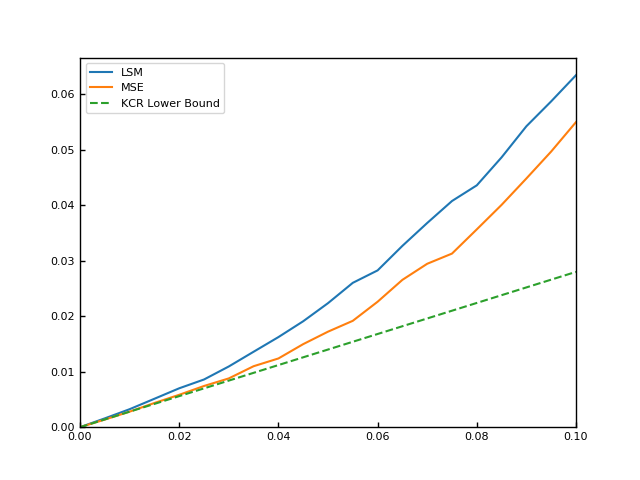
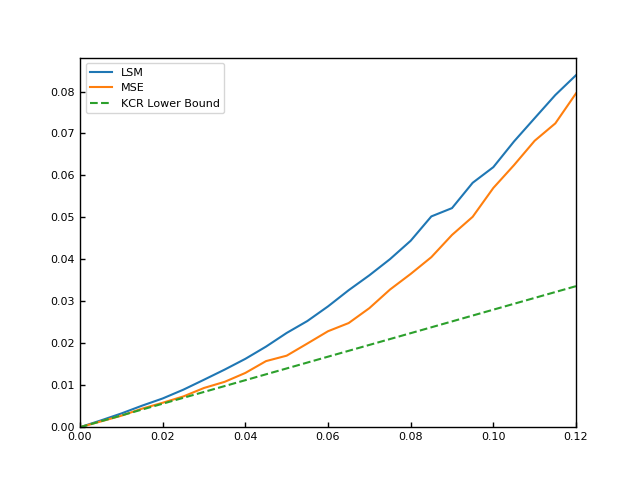
add comment for recognizing program

diff --git a/excercise2/LSM_MLE.py b/excercise2/LSM_MLE.py
@@ -1,3 +1,10 @@
+#-------------------------------------------------------------------------------
+# @Name : LSM_MLE.py
+# @Abstract : Estimate Ellipse parameter from pixel position data by LSM and MLE
+# @Author : Koki Furuya
+# @Last edid : 2019/07/24
+# reference : 菅谷先生の論文 http://www.iim.cs.tut.ac.jp/~kanatani/papers/hyperellip.pdf
+#-------------------------------------------------------------------------------
 import numpy as np
 from scipy import linalg
 import scipy as sp
@@ -7,20 +14,22 @@ from sympy import *
 import sympy
 import scipy.sparse.linalg
 
+#show array infomation of vector or matrix
 def array_info(x):
     print("Array shape:", x.shape)
     print("Type of data:", x.dtype)
     print("Element of Array:\n",x,"\n")
 
 #add gausserror
+#正確な楕円上の位置(x,y)データ群に対して,標準偏差stdvの誤差を付与
 def addGaussError(data, avg, stdv, absmax):
   noise = np.random.normal(avg, stdv, data.shape)
-  #print(noise)
   noise = np.clip(noise, -(absmax + avg), absmax + avg)
   dataWError = data + noise
   return dataWError
 
-#create Matrix
+#create MMatrix
+#最小二乗法と最尤推定法(FNS)の双方で使うM行列の計算(reference参照)
 def createMMat(data, weight):
 
   dataMod = np.matrix(np.zeros((data.shape[0], 6)))
@@ -34,7 +43,7 @@ def createMMat(data, weight):
 
   M = np.zeros((6, 6))
   M = np.matrix(M)
-  #array_info(weight)
+
   for i in range(dataMod.shape[0]):
     dM = dataMod[i, :].T * dataMod[i, :]
     M = M + weight[i, 0] * dM
@@ -57,18 +66,11 @@ def createLMat(data, weight, myu, covs):
   L = np.matrix(np.zeros((6, 6)))
   for i in range(dataMod.shape[0]):
     coeff = weight[i, 0]**2 * (dataMod[i, :] * myu)**2
-    #array_info(coeff)
-    #L = L + coeff[0, 0] * createCovMat(data[i,:])
     L = L + coeff[0, 0] * covs[i]
-    #array_info(coeff[0, 0] * covs[i])
-    #print('weight:',weight[i, 0])
-    #print('weight**2:',weight[i, 0]**2)
-    #print('(dataMod[i, :] * myu)**2:',(dataMod[i, :] * myu)**2)
-    #print('coeff[0, 0] * covs[i]:',coeff[0, 0] * covs[i])
 
   return L / dataMod.shape[0]
 
-#
+#正規化共分散行列の計算
 def createCovMat(data):
 
     x = data[0, 0]
@@ -92,29 +94,6 @@ def createCovMat(data):
     #cov = cov
     return 4*cov
 
-#normalizetion of vector
-def array_normalize(v, axis=-1, order=2):
-    l2 = np.linalg.norm(v, ord = order, axis=axis, keepdims=True)
-    l2[l2==0] = 1
-    return v/l2
-
-def calcVectorError(Vct,trueVct):
-    sumerr = 0.0
-    for i in range(Vct.shape[0]):
-        sumerr = sumerr + np.sqrt((Vct[i,0]-trueVct[i,0])**2)
-    return sumerr
-
-def calc_Weight_LSM(weight,data,myu,row):
-    for i in range(data.shape[0]):
-        CovMat = createCovMat(data[i,:])
-        alp = myu.T * CovMat * myu
-        weight[i,0] = 1/(alp)
-        #Cov_myu = np.dot(CovMat,myu)
-        #weight[i,0] = 1/(np.dot(Cov_myu.T,myu))
-        #weight = np.matrix(np.full(row,weight_value)).T
-    #array_info(weight)
-    return weight
-
 #LSM(最小二乗法による計算)
 def estimateLSM(data):
     weight = np.matrix(np.full(data.shape[0],1.0)).T
@@ -134,123 +113,55 @@ def estimateLSM(data):
         myu=-myu
     return myu
 
+#FNS(最尤推定法による計算)
 def estimateFNS(data):
-    # Add normalized term.
     dataMod = data
-    #dataMod = np.concatenate((data, np.ones((data.shape[0], 1))), axis=1)
-
     # Param Vector
     myu = np.matrix(np.zeros(6)).T
     myuNew = myu
     myuOrg = myu
-
     # Weight matrix.
     weight = np.ones(dataMod.shape[0])
     weight = np.matrix(weight).T
-    #myu = estimateLSM(data)
     # Covars
     covs = []
     for i in range(dataMod.shape[0]):
         data_row = dataMod[i, :]
         covs.append(createCovMat(data_row))
-        #print(covs[i])
-    #myu = estimateLSM(dataMod)
+
     loop = 0
     while True:
         # M Matrix
         M = createMMat(dataMod, weight)
         L = createLMat(dataMod, weight, myu, covs)
-        #array_info(M)
-        #array_info(L)
-        #print('dataMod',dataMod)
-        #print('weight',weight)
-        #lamdas, v = np.linalg.eigh((M - L))
         lamdas, v = sp.linalg.eigh((M - L),turbo=False)
-        #print('lamdas:',lamdas)
-        #print('v:',v)
-
         myuOrg = myu
-
-        #myuNew = np.matrix(v[:, np.argmin(np.absolute(lamdas))]).T
-        #print(la)
-        #la,v = np.linalg.eigvals(MMat)
-        #index = np.where(lamdas==min(lamdas))[0][0]
-        #sorted_lamdas = sorted(lamdas,reverse=True)[:5]
-        #print(sorted_lamdas)
-        #print(sorted_lamdas)
-        #myuNew = np.matrix(v[:, np.argmin(sorted_lamdas)]).T
-        #index = [i for i, v in enumerate(sorted_lamdas) if v == min(sorted_lamdas)][0]
-        #print(v[:, index])
         index = [i for i, v in enumerate(lamdas) if v == min(lamdas)][0]
         myuNew=np.matrix(v[:, index]).T
-        #print('lamda:',lamdas)
-        #print('index:',np.argmin(np.absolute(lamdas)))
-        #print('lamda:',lamdas)
-        #print(v[:, index])
-
-        #print( (M-L)*myuNew - np.matrix(np.diag(lamdas))*myuNew )
-        #if loop==0:
-            #myuNew = np.matrix(v[:, np.argmin(np.absolute(lamdas))]).T
-        #myuNew = np.matrix(v[:, np.argmin(np.absolute(lamdas))])
-        #myuNew = np.matrix(v[:, np.argmin(np.absolute(lamdas))]).T
-
-        #print('resutl:',((M-L)-np.argmin(np.absolute(lamdas)*np.matrix(np.ones((6,6)))))*myuNew)
-        #print('myuNew',myuNew)
-        #myuNew = np.matrix(v[:, np.argmin(lamdas)]).T
-        #print('index',index)
-        #print('v',v)
-        #print('lamdas',lamdas)
-        #print('min(v)',np.min(lamdas))
         if myuNew.sum()<0:
             myuNew=-myuNew
 
-        #myu = (myuNew + myuOrg) / 2
         myu = myuNew
 
-        #term = np.linalg.norm(myu - myuOrg)
-
         term = np.linalg.norm(np.absolute(myu) - np.absolute(myuOrg))
-        #print('term:',term)
-        #print('term:',term)
         if term < 10e-6 or loop > 100:
             if loop > 100:
                 print('loop > 100')
             break
 
-
-        #weight = calc_Weight_LSM(weight,data,myu,data.shape[0])
+        #weightの更新
         for i in range(dataMod.shape[0]):
             alp = myu.T * covs[i] * myu
             weight[i, 0] = 1 / (alp)
 
         loop = loop + 1
         #array_info(weight)
-        calcFunctionJ(dataMod,covs,myu)
     if myu.sum()<0:
         myu = -myu
 
-    #if myu[0,0]<0:
     return myu
 
-def calcFunctionJ(data,covs,myu):
-    dataMod = np.matrix(np.zeros((data.shape[0], 6)))
-    for i in range(data.shape[0]):
-       dataMod[i, 0] = data[i, 0]**2
-       dataMod[i, 1] = data[i, 0] * data[i, 1]
-       dataMod[i, 2] = data[i, 1]**2
-       dataMod[i, 3] = data[i, 0] * data[i, 2]
-       dataMod[i, 4] = data[i, 1] * data[i, 2]
-       dataMod[i, 5] = data[i, 2]**2
-
-    #calc J
-    J=0.0
-    for i in range(data.shape[0]):
-        alp = myu.T * covs[i] * myu
-        J = J + (myu.T*dataMod[i, :].T)**2 /alp
-    #print('J:',J)
-    #print('myu',myu)
-    return J
-
+#分散の計算
 def calcDeviation(results,true_val):
     sum_theta = np.matrix(np.zeros((6,1)))
     for rst in results:
@@ -260,36 +171,24 @@ def calcDeviation(results,true_val):
         sum_theta = sum_theta + delta_theta
     sum_theta = sum_theta/len(results)
     rms_value = np.linalg.norm(sum_theta)
-    #rms_value = np.linalg.norm(sum_theta,2)
-        #print(sum_theta)
-        #print(np.linalg.norm(delta_theta,2)**2)
-    #print('sum_theta/resultsNum:',sum_theta/len(results))
-    #rms_value = np.sqrt(sum_theta/len(results))
-    #print(rms_value)
     return rms_value
 
+#RMS誤差の計算
 def calcRMSErr(results,true_val):
     sum_theta = 0.0
     for rst in results:
         p_theta = np.identity(6) - np.dot(true_val,true_val.T)
         delta_theta = np.dot(p_theta,rst)
         sum_theta = sum_theta + np.linalg.norm(delta_theta)**2
-        #print(delta_theta)
-        #print('norm',np.linalg.norm(delta_theta))
-
-        #sum_theta = sum_theta + np.linalg.norm(delta_theta,2)**2
-        #print(sum_theta)
-        #print(np.linalg.norm(delta_theta,2)**2)
-    #print('sum_theta/resultsNum:',sum_theta/len(results))
     rms_value = np.sqrt(sum_theta/len(results))
 
     testsum = 0.0
     for rst in results:
         testsum = testsum + np.linalg.norm(rst - true_val)
     print('norm distance:',testsum/len(results))
-    #print(rms_value)
     return rms_value
 
+#KCR下(理論上, それ以下の精度は出せないという値)の計算
 def KCR_lower_bound(data,stdv,data_num,myu):
 
     # Weight matrix.
@@ -305,11 +204,7 @@ def KCR_lower_bound(data,stdv,data_num,myu):
         alp = myu.T * covs[i] * myu
         weight[i, 0] = 1 / (alp)
 
-    #print('weight:',weight)
-
     M = createMMat(data, weight)
-    #M = np.linalg.inv(M)
-    #M = np.linalg.inv(M)
     lamda,v = np.linalg.eigh(M)
 
     sorted_lamda = sorted(lamda, reverse=True)
@@ -317,30 +212,13 @@ def KCR_lower_bound(data,stdv,data_num,myu):
     sorted_lamda = np.matrix(sorted_lamda[:5]).T
 
     sum_inv_ramda = 0.0
-    #sum_inv_ramda = sorted_lamda.sum()
     for i in range(sorted_lamda.shape[0]):
         sum_inv_ramda = sum_inv_ramda + (1.0/sorted_lamda[i])
-    #print('M:',M)
-    #print(createMMat(data, np.matrix(np.ones(data.shape[0])).T))
-    #sum_inv_ramda = 0.0
-    #for i in range(lamda.shape[0]):
-        #sum_inv_ramda = sum_inv_ramda + 1.0/lamda[i]
 
     Dkcr = stdv*np.sqrt(sum_inv_ramda) / np.sqrt(data.shape[0])
-    #array_info(lamda)
-    #inv_M = np.linalg.inv(M)
-    #print(inv_M)
-    #print(M*inv_M)
-    #diag_M = np.diag(inv_M).sum()
-    #print(diag_M)
-    #print(stdv/np.sqrt(data.shape[0]))
-    #print(M*true)
-    #la,v = np.linalg.eigh(M)
-    #print(la.sum())
-    #Dkcr = ( stdv/np.sqrt(data_num) )*np.sqrt(diag_M)
-    #Dkcr = ( stdv/np.sqrt(data.shape[0]) )*np.sqrt(diag_M)
     return Dkcr[0][0]
 
+#show 2D Ellipse image
 def plotData(myuLSM,myuFNS,trueVal,data):
     import sys
     from Ellipse import generateVecFromEllipse
@@ -396,9 +274,6 @@ def calcLSMandMSE(data,trialNum ,stdv_val,trueAns):
         LSM_results.append(myuLSM)
         FNS_results.append(myuFNS)
 
-    #Plot last answer figure of Ellipse
-    #plotData(myuLSM,myuFNS,trueAns,dataNoised)
-
     LSM_dev = calcDeviation(LSM_results,np.matrix(trueAns).T)
     FNS_dev = calcDeviation(FNS_results,np.matrix(trueAns).T)
     LSM_err = calcRMSErr(LSM_results,np.matrix(trueAns).T)
@@ -418,6 +293,8 @@ def calcLSMandMSE(data,trialNum ,stdv_val,trueAns):
 
     return LSM_dev ,FNS_dev,LSM_err,FNS_err,kcr
 
+#LSMとMSEを繰り返し計算し, その誤差平均値などを求める.
+#実質main関数
 def calcRepLSMandMSE():
     #read data of points including error value
     data = np.loadtxt('points.dat',comments='!')
@@ -426,7 +303,7 @@ def calcRepLSMandMSE():
     #init value
     trialNum = 1000
     #List of standard deviation
-    stdvList = np.arange(0.0, 0.101, 0.005, dtype = 'float64')
+    stdvList = np.arange(0.0, 0.121, 0.005, dtype = 'float64')
     #Make list of SD List and RMS list
     LSM_dev_List = np.array(np.zeros(stdvList.shape))
     MSE_dev_List = np.array(np.zeros(stdvList.shape))
@@ -464,12 +341,11 @@ def calcRepLSMandMSE():
     plt.legend()
     plt.savefig('RMS.png')
 
-
-
-
 if __name__ == "__main__":
 
     calcRepLSMandMSE()
+
+    '''
     #read data of points including error value
     data = np.loadtxt('points.dat',comments='!')
     #read data of true value
@@ -528,9 +404,4 @@ if __name__ == "__main__":
     print('真値とLSM_uの偏差:',LSM_dev)
     print('真値とFNS_uの偏差:',FNS_dev)
     print('KCR誤差',kcr)
-
-
-    #x = range(4, 4, 100)
-    #print('x',x)
-    #for i in x:
-        #i = i * 0.1
+    '''
